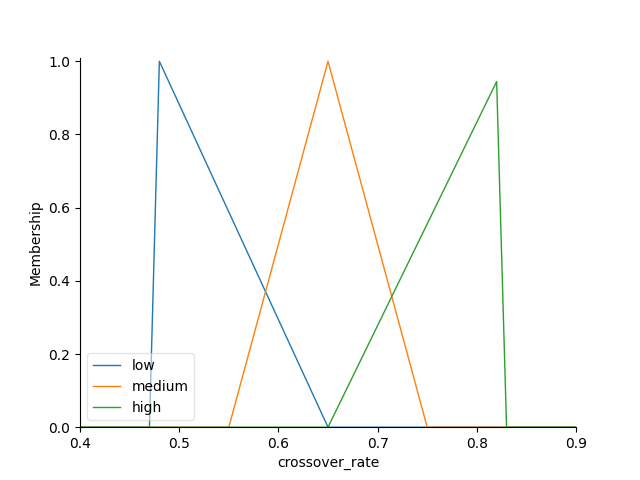
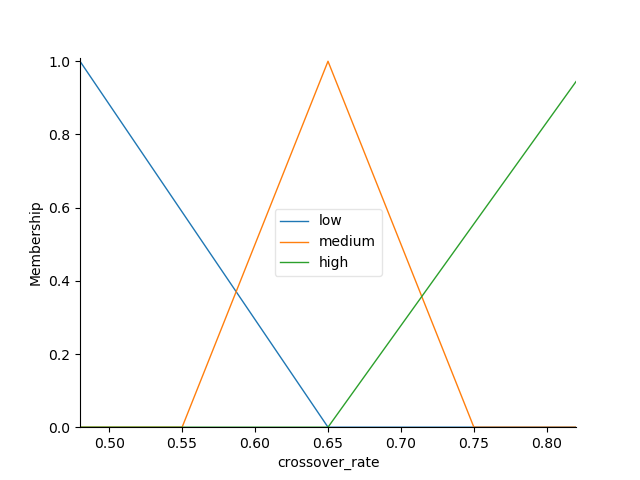
adjusted membership functions and implemented fuzzy system to adjust crossover and mutation rates

diff --git a/implementation/operations/fuzzy_system.py b/implementation/operations/fuzzy_system.py
@@ -12,7 +12,7 @@ Returns:
 '''
 def define_antecedents():
     best_fitness = ctrl.Antecedent(np.arange(0.0, 1.1, 0.1), 'best_fitness')
-    number_generations_unchanged_best_fitness = ctrl.Antecedent(np.arange(0, 21, 1), 'number_generations_unchanged_best_fitness')
+    number_generations_unchanged_best_fitness = ctrl.Antecedent(np.arange(0, 13, 1), 'number_generations_unchanged_best_fitness')
     variance_fitness = ctrl.Antecedent(np.arange(0.0, 0.21, 0.01), 'variance_fitness')
     antecedents = [best_fitness, number_generations_unchanged_best_fitness, variance_fitness]
 
@@ -25,7 +25,7 @@ Returns:
     consequents: list of consequents
 '''
 def define_consequents():
-    crossover_rate = ctrl.Consequent(np.arange(0.40, 0.91, 0.01), 'crossover_rate')
+    crossover_rate = ctrl.Consequent(np.arange(0.48, 0.83, 0.01), 'crossover_rate')
     mutation_rate = ctrl.Consequent(np.arange(0.005, 0.105, 0.005), 'mutation_rate')
     consequents = [crossover_rate, mutation_rate]
 
@@ -79,17 +79,60 @@ Returns:
 rules: list of rules
 '''
 def define_fuzzy_rules(antecedents, consequents):
-    rule1 = ctrl.Rule(antecedents[0]['low'], consequents[1]['low'] & consequents[0]['high'])
-    rule2 = ctrl.Rule(antecedents[0]['medium'] & antecedents[1]['low'], consequents[1]['low'] & consequents[0]['high'])
-    rule3 = ctrl.Rule(antecedents[0]['medium'] & antecedents[1]['medium'], consequents[1]['medium'] & consequents[0]['medium'])
-    rule4 = ctrl.Rule(antecedents[1]['high'] & antecedents[2]['medium'], consequents[1]['high'] & consequents[0]['low'])
-    rule5 = ctrl.Rule(antecedents[0]['high'] & antecedents[1]['low'], consequents[1]['low'] & consequents[0]['high'])
-    rule6 = ctrl.Rule(antecedents[0]['high'] & antecedents[1]['medium'], consequents[1]['medium'] & consequents[0]['medium'])
-    rule7 = ctrl.Rule(antecedents[1]['high'] & antecedents[2]['low'], consequents[1]['high'] & consequents[0]['low'])
-    rule8 = ctrl.Rule(antecedents[1]['high'] & antecedents[2]['high'], consequents[1]['low'] & consequents[0]['low']) 
+    rule1 = ctrl.Rule(antecedents[0]['low'], consequents[1]['low'])
+    rule1_2 = ctrl.Rule(antecedents[0]['low'], consequents[0]['high'])
 
-    return [rule1, rule2, rule3, rule4, rule5, rule6, rule7, rule8]
+    rule2 = ctrl.Rule(antecedents[0]['medium'] & antecedents[1]['low'], consequents[1]['low'])
+    rule2_1 = ctrl.Rule(antecedents[0]['medium'] & antecedents[1]['low'], consequents[0]['high'])
 
+    rule3 = ctrl.Rule(antecedents[0]['medium'] & antecedents[1]['medium'], consequents[1]['medium'])
+    rule3_1 = ctrl.Rule(antecedents[0]['medium'] & antecedents[1]['medium'], consequents[0]['medium'])
+
+    rule4 = ctrl.Rule(antecedents[1]['high'] & antecedents[2]['medium'], consequents[1]['high'])
+    rule4_1 = ctrl.Rule(antecedents[1]['high'] & antecedents[2]['medium'], consequents[0]['low'])
+
+    rule5 = ctrl.Rule(antecedents[0]['high'] & antecedents[1]['low'], consequents[1]['low'])
+    rule5_1 = ctrl.Rule(antecedents[0]['high'] & antecedents[1]['low'], consequents[0]['high'])
+
+    rule6 = ctrl.Rule(antecedents[0]['high'] & antecedents[1]['medium'], consequents[1]['medium'])
+    rule6_1 = ctrl.Rule(antecedents[0]['high'] & antecedents[1]['medium'], consequents[0]['medium'])
+
+    rule7 = ctrl.Rule(antecedents[1]['high'] & antecedents[2]['low'], consequents[1]['high'])
+    rule7_1 = ctrl.Rule(antecedents[1]['high'] & antecedents[2]['low'], consequents[0]['low'])
+
+    rule8 = ctrl.Rule(antecedents[1]['high'] & antecedents[2]['high'], consequents[1]['low'])
+    rule8_1 = ctrl.Rule(antecedents[1]['high'] & antecedents[2]['high'], consequents[0]['low'])
+
+    return [rule1, rule1_2, rule2, rule2_1, rule3, rule3_1, rule4, rule4_1, rule5, rule5_1, rule6, rule6_1, rule7, rule7_1, rule8, rule8_1]
+
+'''
+Function to define the fuzzy control system to compute the crossover and mutation rates according to the antecedents of the fuzzy system
+
+Parameters:
+----------
+rules: list of rules
+    The rules of the fuzzy system
+
+antecedents: list of antecedents
+    The antecedents of the fuzzy system
+
+Returns:
+-------
+crossover_rate: float
+    The crossover rate computed by the fuzzy system
+
+mutation_rate: float
+    The mutation rate computed by the fuzzy system
+'''
+def fuzzy_control_system(rules, inputs):
+    fuzzy_control_system = ctrl.ControlSystem(rules)
+    fuzzy_control = ctrl.ControlSystemSimulation(fuzzy_control_system)
+    fuzzy_control.input['best_fitness'] = inputs[0]
+    fuzzy_control.input['number_generations_unchanged_best_fitness'] = inputs[1]
+    fuzzy_control.input['variance_fitness'] = inputs[2]
+
+    fuzzy_control.compute()
+    return fuzzy_control.output['crossover_rate'], fuzzy_control.output['mutation_rate']
 
 '''
 Function to plot the membership functions 

diff --git a/implementation/results/intermediate_test_suite/test_cases.py b/implementation/results/intermediate_test_suite/test_cases.py
@@ -1,19 +1,20 @@
 from cut import *
 
 def test_case_0():
-	cut = calorie_intake_calc(131.15,143.61,21,'M',0.12,'V')
-	result_mifflin_stjeor_equation = cut.mifflin_stjeor_equation()
-	result_determine_calorie_intake = cut.determine_calorie_intake()
-	cut.bodyfat = 0.12
+	cut = calorie_intake_calc(123.11,219.55,12,'N',0.03,'E')
+	cut.height = 189.57
+	cut.age = 66
+	result_tdee_calculation = cut.tdee_calculation()
 
 def test_case_1():
-	cut = calorie_intake_calc(170.14,160.69,62,'N',0.2,'S')
-	result_determine_calorie_intake = cut.determine_calorie_intake()
+	cut = calorie_intake_calc(151.61,187.58,30,'F',0.04,'L')
+	result_mifflin_stjeor_equation = cut.mifflin_stjeor_equation()
 
 def test_case_2():
-	cut = calorie_intake_calc(47.4,205.8,80,'F',0.12,'E')
+	cut = calorie_intake_calc(164.18,169.59,72,'F',0.15,'L')
+	cut.weight = 194.17
 
 def test_case_3():
-	cut = calorie_intake_calc(116.19,144.17,41,'N',0.28,'N')
-	cut.height = 200.35
+	cut = calorie_intake_calc(144.13,177.75,61,'M',0.24,'E')
+	cut.bodyfat = 0.21
 

diff --git a/implementation/genetic_algorithm.py b/implementation/genetic_algorithm.py
@@ -50,7 +50,20 @@ antecedents = define_antecedents()
 consequents = define_consequents()
 define_fuzzy_sets(antecedents, consequents)
 plot_fuzzy_sets(antecedents, consequents, util.obtain_configuration("config.ini", "file_paths", "fuzzy_membership_functions"))
+rules = define_fuzzy_rules(antecedents, consequents)
 
+for i in range(5):
+    print("Fuzzy System Calculation")
+    print("--------------------------------")
+    inputs = [random.uniform(0.0, 1.0), random.randint(0, 20), random.uniform(0.0, 0.2)]
+
+    print("Inputs")
+    print(inputs)
+
+    crossover_rate, mutation_rate = fuzzy_control_system(rules, inputs)
+    print("Crossover Rate : " + str(crossover_rate))
+    print("Mutation Rate : " + str(mutation_rate))
+    print("|-------------------------|")
 
 #parent1 = random.randint(0, len(population) - 1)
 #parent2 = random.randint(0, len(population) - 1)
